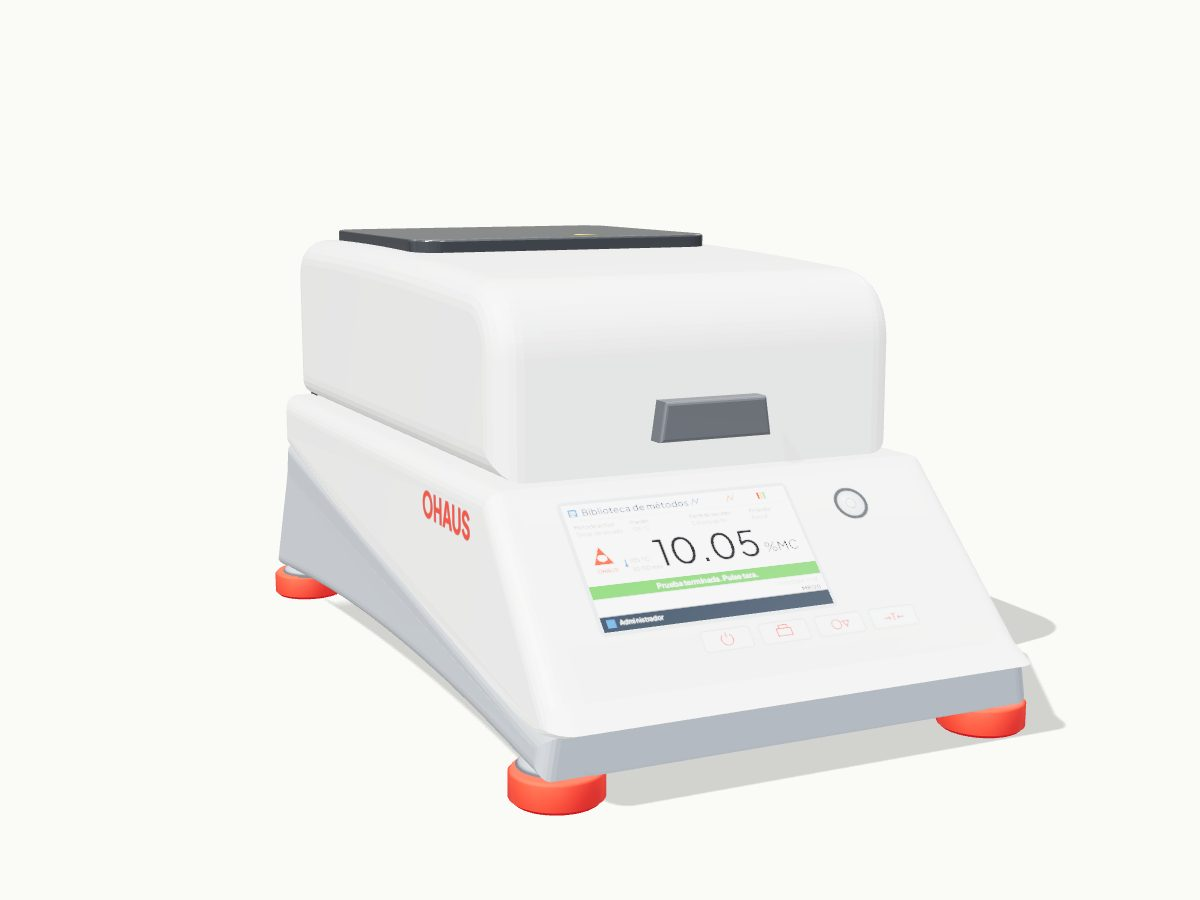
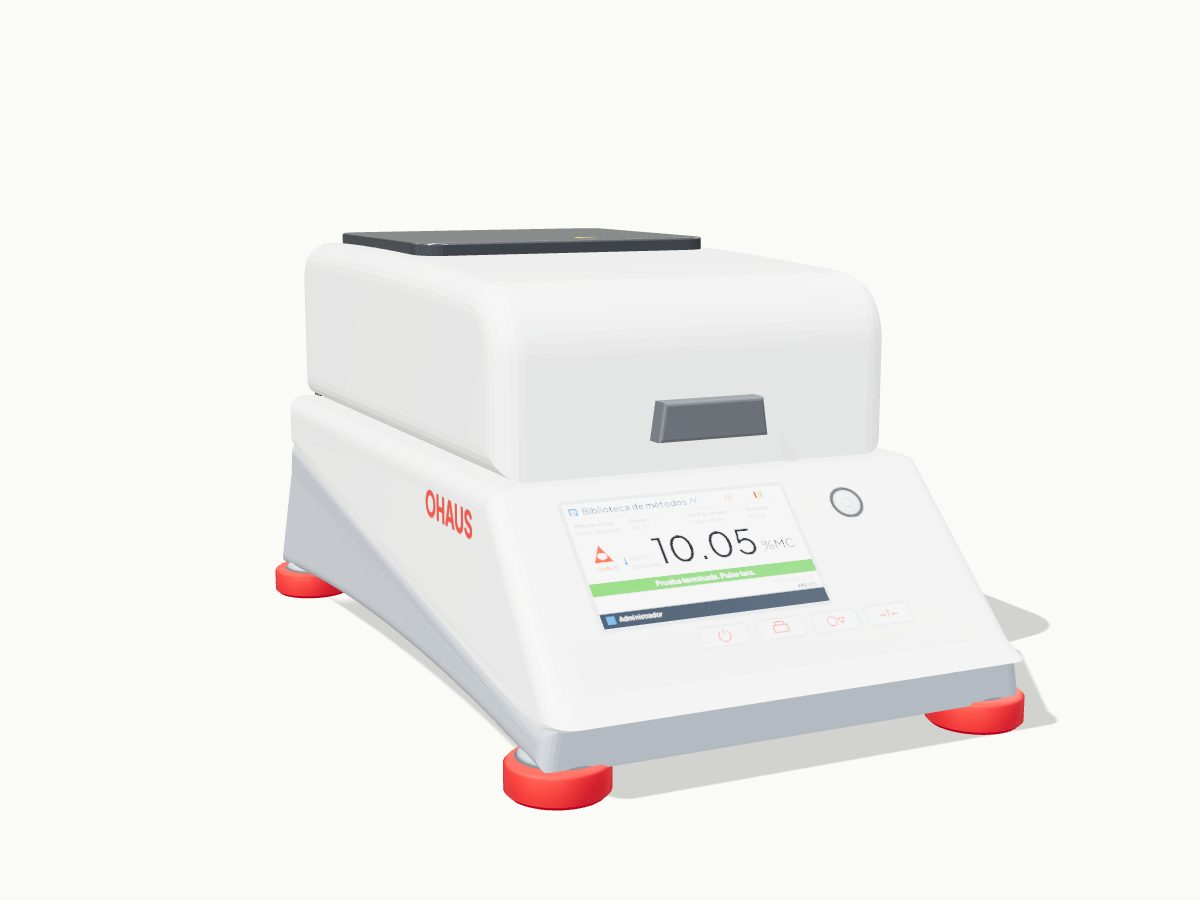
fix(web): MB120 %MC climbs while drying, as on the real unit
%MC is mass lost relative to the starting mass, so on the instrument it
rises from 0.00 to the result; the readout now does the same and ends on
the photo's 10.05 with «Prueba terminada». Story beat copy follows.
Feet a little larger and a deeper red, closer to the photo. Poster
regenerated.

diff --git a/apps/web/src/lib/showroom/models/ohaus-mb120.ts b/apps/web/src/lib/showroom/models/ohaus-mb120.ts
@@ -29,7 +29,8 @@
  * La tapa gira sobre una bisagra trasera y la gobierna la marcha: con el equipo
  * en marcha (`setPower(true)`) se abre y se queda abierta; al detenerlo se
  * cierra. La lámpara sólo brilla con la tapa abierta y el equipo en marcha. En
- * marcha, la pantalla recorre un secado; en reposo muestra el último resultado.
+ * marcha, la pantalla recorre un secado (el %MC sube desde 0,00 hasta el
+ * resultado, como en el equipo real); en reposo muestra el último resultado.
  * Una historia puede tomar el mando:
  *
  *   model.setLidAngle(1.2);            // radianes, 0 … LID_MAX; `null` vuelve al modo automático
@@ -56,8 +57,7 @@ const LID_MAX = 1.66; // ~95°
 const PAN_Z = -40;
 const FOOT_X = 91;
 const FOOT_Z = 158;
-/** La cifra de la pantalla al empezar un secado y al terminarlo (el resultado de la foto), en %MC. */
-const START_MC = 18.4;
+/** Resultado de la foto, en %MC: la cifra a la que llega cada secado. */
 const RESULT_MC = 10.05;
 const DRY_S = 9; // segundos de un secado automático a plena marcha
 
@@ -129,7 +129,7 @@ export function build(): BuiltModel & { setLidAngle(angle: number | null): void 
     new THREE.MeshPhysicalMaterial({ color: 0xf1f1ee, roughness: 0.42, metalness: 0, clearcoat: 0.35, clearcoatRoughness: 0.35 }),
   );
   const grey = keep(new THREE.MeshPhysicalMaterial({ color: 0x949ba3, roughness: 0.55, clearcoat: 0.1, clearcoatRoughness: 0.5 }));
-  const red = keep(new THREE.MeshStandardMaterial({ color: 0xd8261c, roughness: 0.62 }));
+  const red = keep(new THREE.MeshStandardMaterial({ color: 0xc4141c, roughness: 0.6 }));
   const dark = keep(new THREE.MeshStandardMaterial({ color: 0x2b2e31, roughness: 0.5 }));
   const handleMat = keep(new THREE.MeshPhysicalMaterial({ color: 0x55595d, roughness: 0.45, clearcoat: 0.3 }));
   const smoked = keep(
@@ -178,8 +178,8 @@ export function build(): BuiltModel & { setLidAngle(angle: number | null): void 
   root.add(greyShell);
 
   /* ── patas: zapata roja y el ensanche gris que baja a ella ── */
-  const footGeo = keep(lathe([[0, 0], [15.5, 0], [17.2, 1.6], [17.2, 10.4], [15.8, 12], [0, 12]], 40));
-  const flareGeo = keep(lathe([[0, 11.5], [16, 11.5], [14, 14], [10.5, 19], [8, 26], [0, 26]], 40));
+  const footGeo = keep(lathe([[0, 0], [17.5, 0], [19.4, 1.8], [19.4, 11.4], [17.8, 13], [0, 13]], 40));
+  const flareGeo = keep(lathe([[0, 12.5], [17, 12.5], [14.5, 15], [10.5, 20], [8, 26], [0, 26]], 40));
   for (const sx of [-1, 1]) {
     for (const sz of [-1, 1]) {
       const foot = new THREE.Mesh(footGeo, red);
@@ -314,8 +314,11 @@ export function build(): BuiltModel & { setLidAngle(angle: number | null): void 
   let progress = 0; // avance del secado 0 … 1
   let phase: 'rest' | 'drying' | 'done' = 'rest';
   let readout: number | null = null;
-  /** La cifra baja con el secado, rápido al principio, hasta el resultado. */
-  const mcAt = (p: number) => RESULT_MC + (START_MC - RESULT_MC) * ((Math.exp(-4 * p) - Math.exp(-4)) / (1 - Math.exp(-4)));
+  /**
+   * %MC = masa perdida respecto de la inicial: como en el equipo real, sube con
+   * el secado desde 0,00, rápido al principio, hasta el resultado.
+   */
+  const mcAt = (p: number) => (RESULT_MC * (1 - Math.exp(-4 * p))) / (1 - Math.exp(-4));
   const drawScreen: Draw = (g, w, h) => {
     const s = w / 570;
     const W = 570;

diff --git a/apps/web/src/lib/showroom/stories/ohaus-mb120.ts b/apps/web/src/lib/showroom/stories/ohaus-mb120.ts
@@ -6,7 +6,7 @@
  *   screen    la pantalla táctil y su biblioteca de métodos
  *   lid       la tapa se abre: el plato con la muestra
  *   heat      en marcha: la lámpara halógena calienta
- *   dry       la humedad baja en la pantalla hasta el resultado
+ *   dry       el %MC sube en la pantalla hasta el resultado
  *   close     vuelta al reposo y «Solicitar cotización»
  *
  * Las cifras no se escriben aquí: `{Etiqueta}` es el valor de la ficha con
@@ -91,8 +91,8 @@ export const story: ProductStoryConfig = {
       progressStart: 0.64,
       progressEnd: 0.84,
       cameraView: 'pantalla',
-      textHeadline: 'La humedad baja hasta el resultado',
-      textBody: 'La muestra pierde masa al secarse y la pantalla da la humedad con {Legibilidad}.',
+      textHeadline: 'La humedad, por pérdida de masa',
+      textBody: 'La muestra pierde masa al secarse y el %MC sube hasta el resultado, con {Legibilidad}.',
       animationHook: (scene, t) => pose(scene, { power: true, yaw: 0, dry: 0.12 + 0.88 * smoothstep(Math.min(1, t * 1.25)) }),
     },
     {
